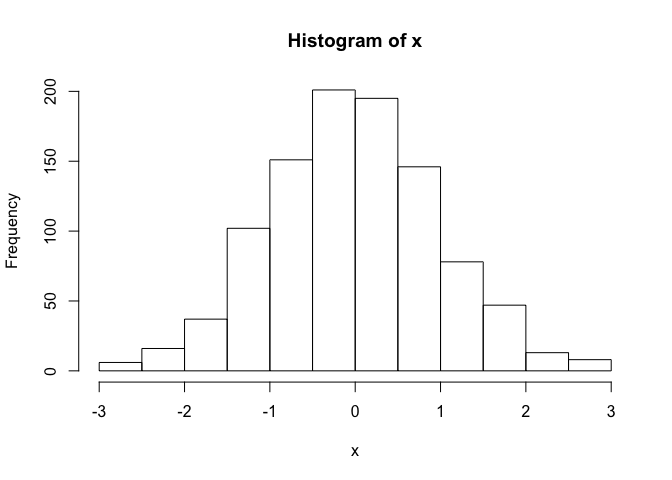
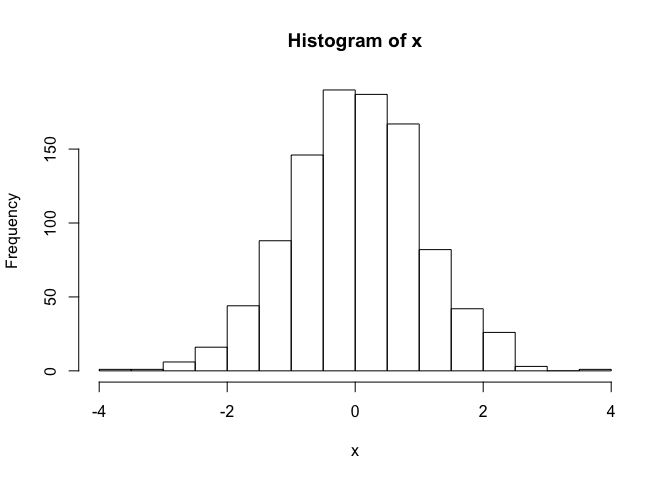
update to github version

diff --git a/lecture05/class05.md b/lecture05/class05.md
@@ -24,7 +24,7 @@ summary(x)
 ```
 
     ##     Min.  1st Qu.   Median     Mean  3rd Qu.     Max. 
-    ## -2.97191 -0.70774 -0.02662 -0.01866  0.61580  2.99073
+    ## -3.70038 -0.65187  0.02631  0.01588  0.68449  3.68658
 
 ``` r
 hist(x)
